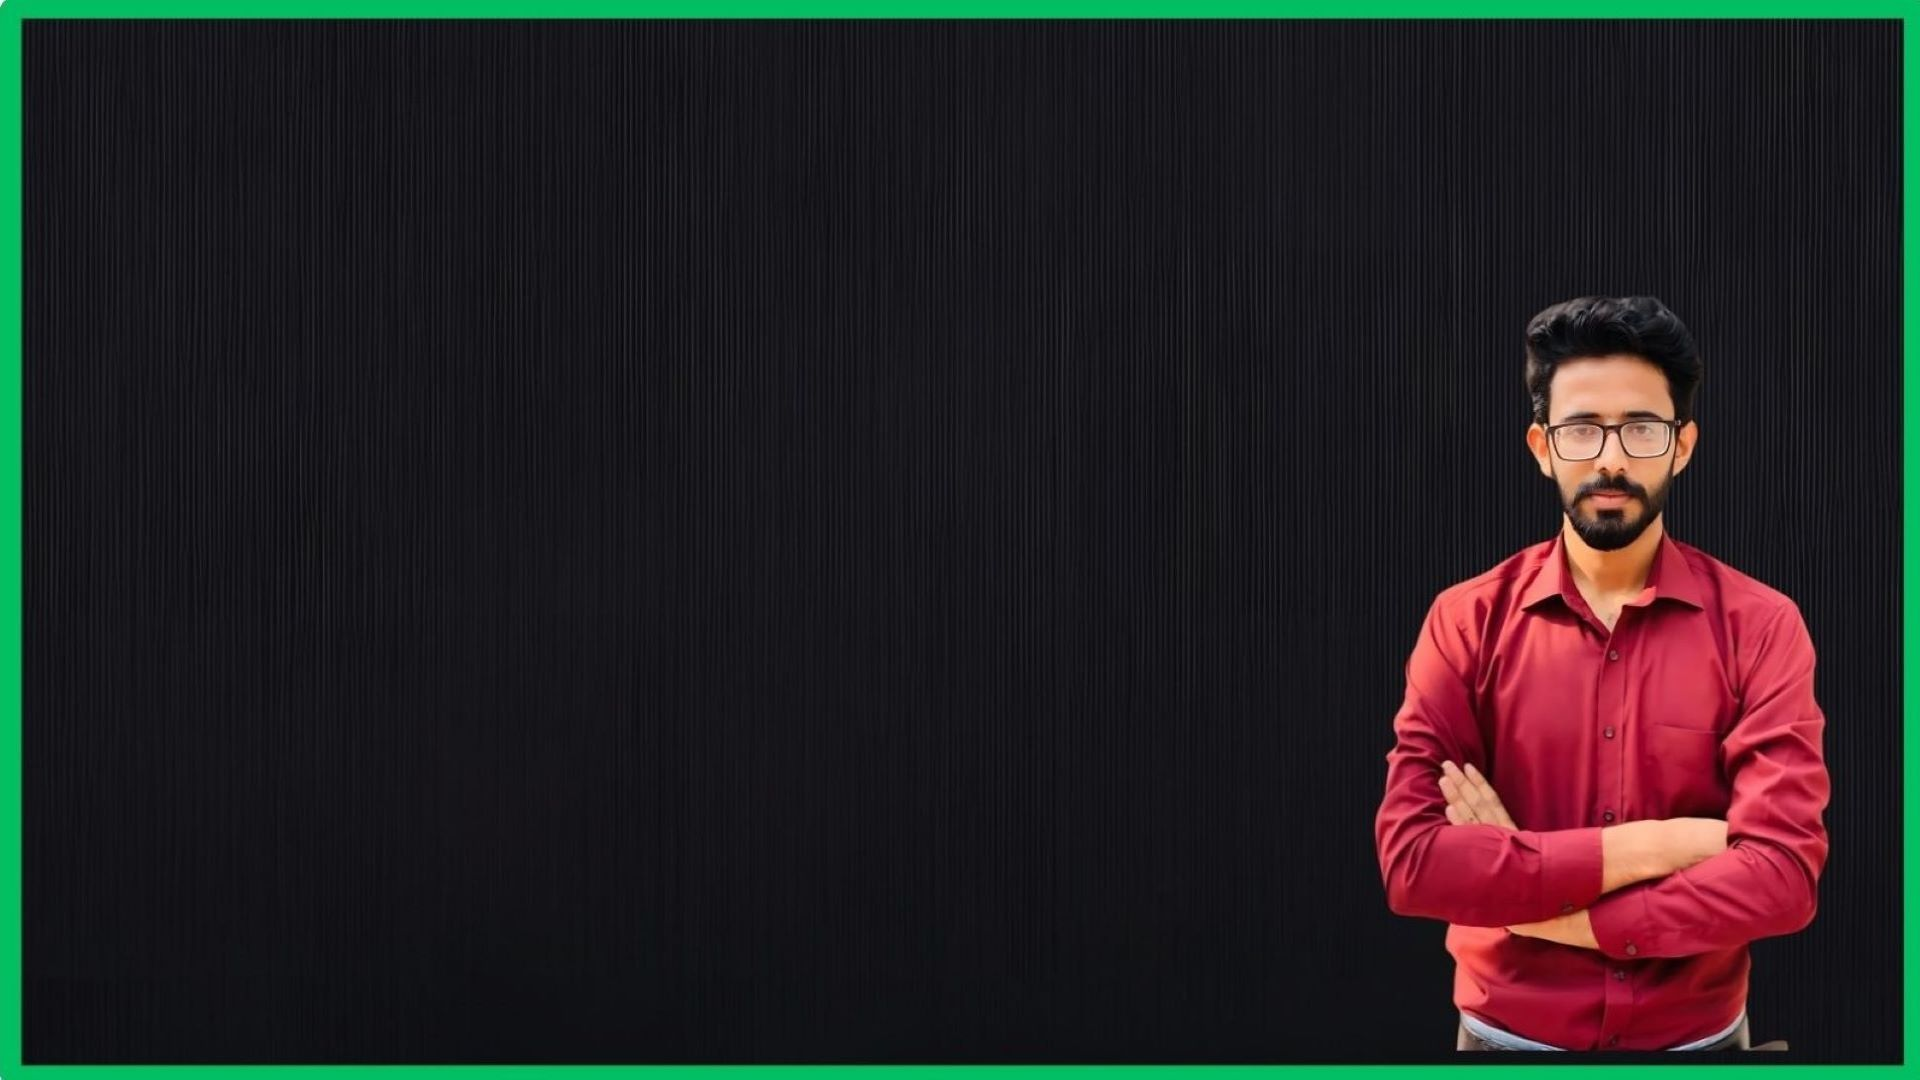
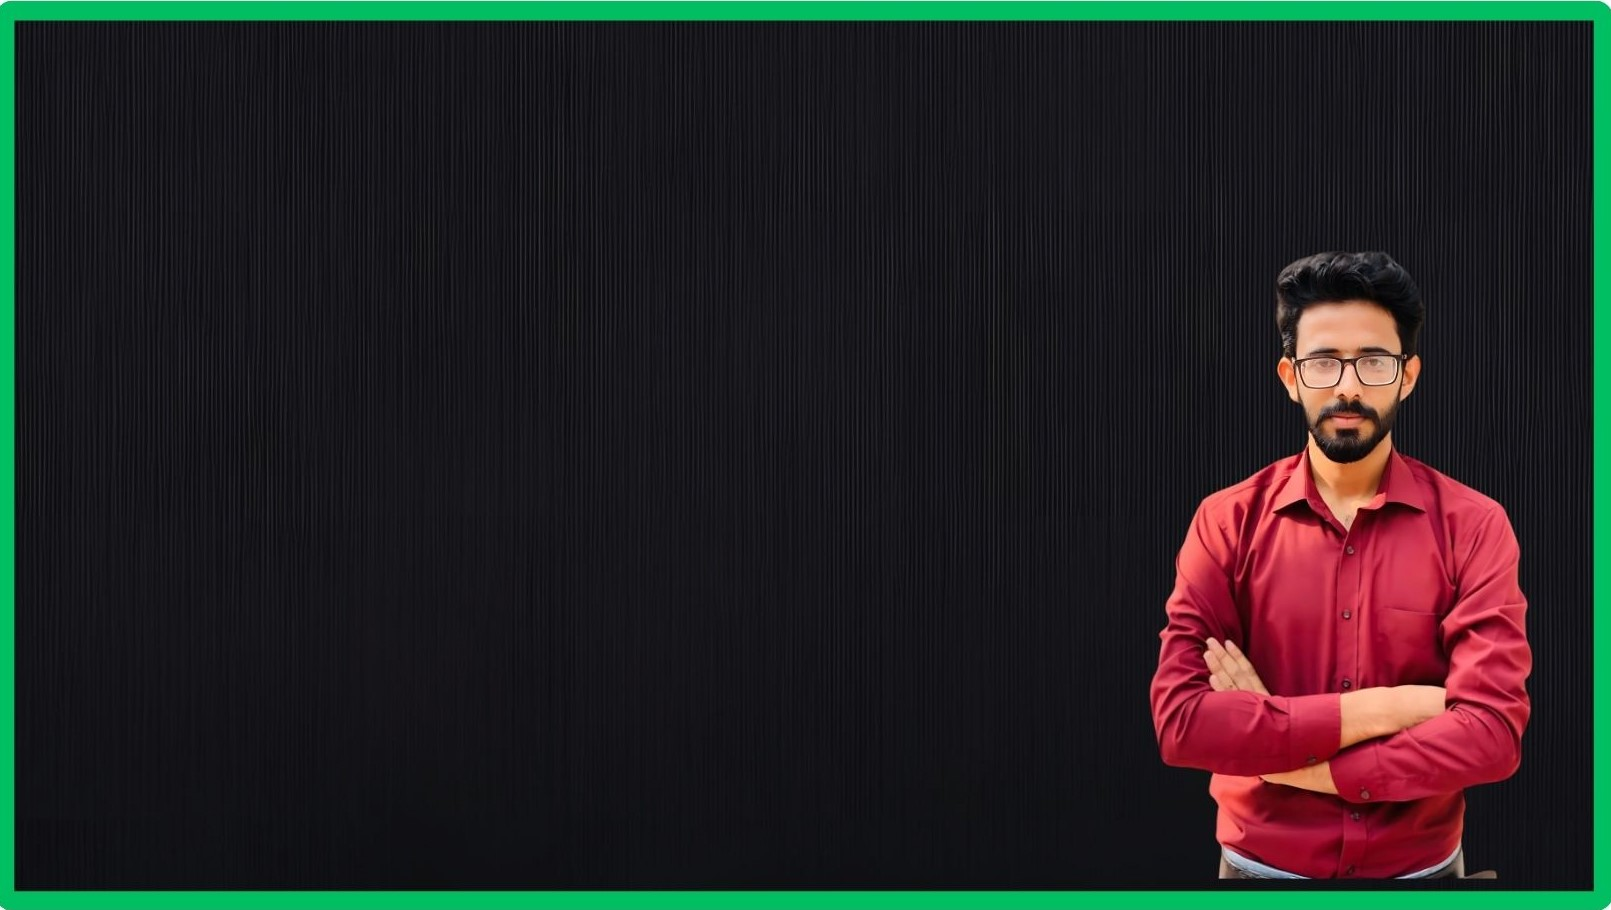
commit

Changed region(s): [[0.0, 0.0, 1.0, 1.0]]

diff --git a/index.html b/index.html
@@ -36,6 +36,24 @@
   * Author: BootstrapMade.com
   * License: https://bootstrapmade.com/license/
   ======================================================== -->
+
+  <style>
+    .hero {
+      background-image: url('assets/img/hero-bg.jpg');
+      background-size: cover;
+      background-position: center;
+      background-color: aqua;
+      background-repeat: no-repeat;
+      width: 99vw;
+      height: 99vh;
+    }
+
+    @media (max-width:770px) {
+      .hero {
+        background-image: url('./assets/img/hero-bg0.jpg');
+      }
+    }
+  </style>
 </head>
 
 <body class="index-page">
@@ -86,13 +104,14 @@
 
     <!-- Hero Section -->
     <section id="hero" class="hero section dark-background">
-      <img src="assets/img/hero-bg.jpg" alt="" data-aos="fade-in">
+
       <div class="container" data-aos="zoom-out" data-aos-delay="100">
         <h2>Zeeshan Abbas</h2>
         <p>I'm <span class="typed" data-typed-items="Software Engineer, AI Engineer, Data Scientist">Data
             Scientist</span><span class="typed-cursor typed-cursor--blink"></span></p>
         <div class="social-links">
-          <a href="https://wa.me/923159734377?text=Hello%2C%20I%20need%20assistance%21"><i class="bi bi-whatsapp"></i></a>
+          <a href="https://wa.me/923159734377?text=Hello%2C%20I%20need%20assistance%21"><i
+              class="bi bi-whatsapp"></i></a>
           <a href="#"><i class="bi bi-facebook"></i></a>
           <a href="#"><i class="bi bi-instagram"></i></a>
           <a href="https://www.linkedin.com/in/zeeshan-abbass/"><i class="bi bi-linkedin"></i></a>

diff --git a/portfolio.html b/portfolio.html
@@ -71,7 +71,7 @@
           <div class="row d-flex justify-content-center text-center">
             <div class="col-lg-8">
               <h1>Portfolio</h1>
-              <p class="mb-0">Odio et unde deleniti. Deserunt numquam exercitationem. Officiis quo odio sint voluptas consequatur ut a odio voluptatem. Sit dolorum debitis veritatis natus dolores. Quasi ratione sint. Sit quaerat ipsum dolorem.</p>
+              <p class="mb-0">"A showcase of selected projects demonstrating my skills, creativity, and dedication to delivering high-quality work. Each piece reflects a unique approach and solution, tailored to meet diverse needs and challenges. Explore my portfolio to see the impact and depth of my experience."</p>
             </div>
           </div>
         </div>
